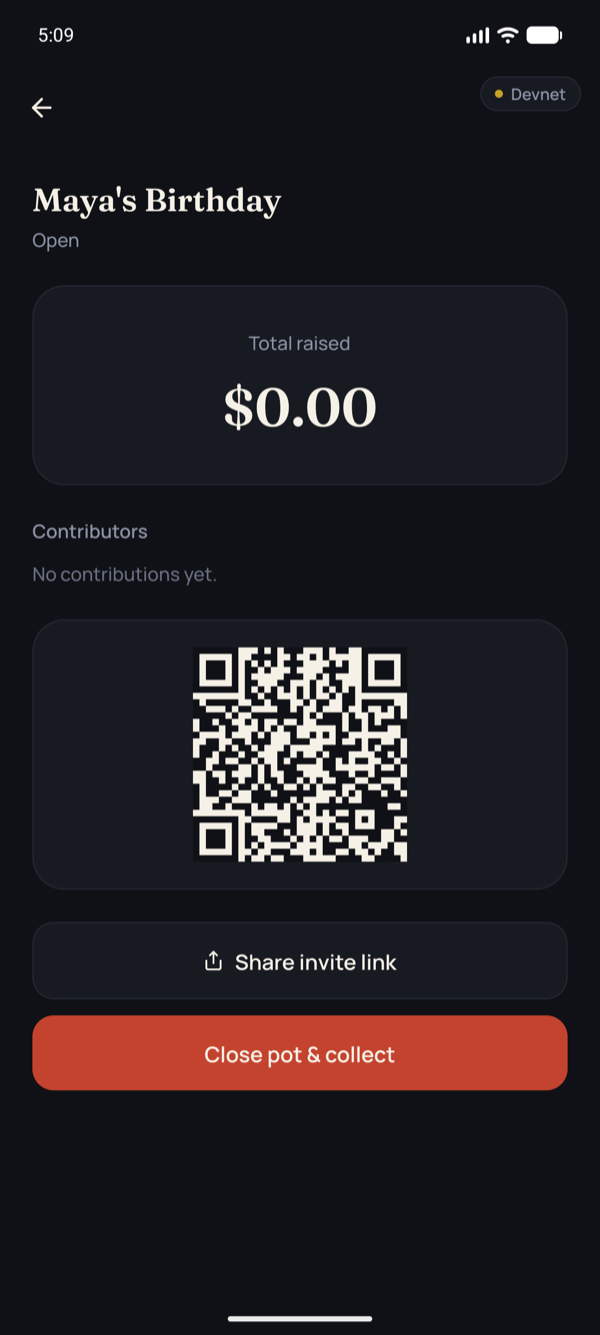
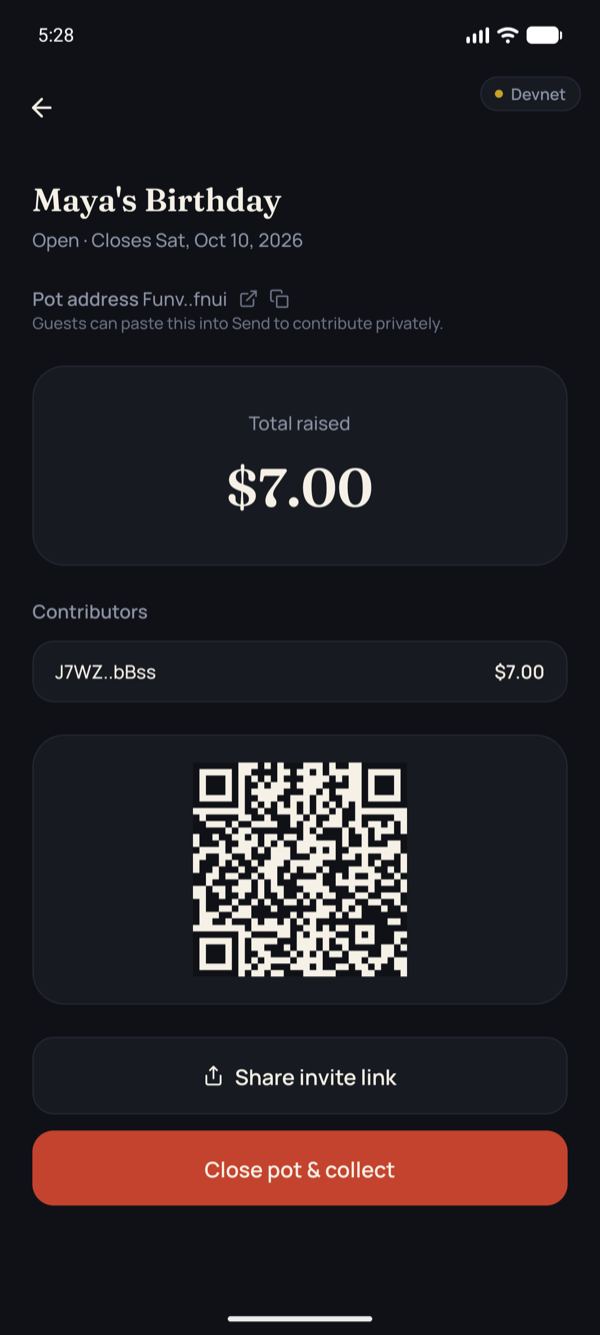
pot details UI

diff --git a/src/app/pot/[potPda].tsx b/src/app/pot/[potPda].tsx
@@ -108,6 +108,11 @@ function HostView({
   }, [ensurePotKeys, potId])
 
   const { availableBalance, pendingBalance, isLoading: balanceLoading } = usePotBalance(keysReady ? potOwner : null)
+  // Contributions land in the pot's *pending* balance and only move to *available* when applied,
+  // which happens when the pot is closed (useClosePot applies, then sweeps). Both are money the
+  // pot holds, so the host sees them as one total.
+  const totalRaised =
+    availableBalance === null && pendingBalance === null ? null : (availableBalance ?? 0n) + (pendingBalance ?? 0n)
   const { data: contributions } = usePotContributions(keysReady ? potOwner : null)
   const { closePot } = useClosePot()
   const [isClosing, setIsClosing] = useState(false)
@@ -161,15 +166,8 @@ function HostView({
             Total raised
           </Text>
           <Text style={{ fontFamily: fontFamily.display, fontSize: 40, color: colors.paper[500] }}>
-            {balanceLoading || availableBalance === null
-              ? '—'
-              : `$${formatBaseUnits(availableBalance, CUSDC_DECIMALS)}`}
+            {balanceLoading || totalRaised === null ? '—' : `$${formatBaseUnits(totalRaised, CUSDC_DECIMALS)}`}
           </Text>
-          {pendingBalance !== null && pendingBalance > 0n ? (
-            <Text className="text-gold-500 text-xs mt-2" style={{ fontFamily: fontFamily.ui }}>
-              +${formatBaseUnits(pendingBalance, CUSDC_DECIMALS)} pending
-            </Text>
-          ) : null}
         </View>
 
         <Text className="text-mute-500 text-sm mb-3" style={{ fontFamily: fontFamily.uiSemibold }}>

diff --git a/README.md b/README.md
@@ -35,6 +35,7 @@ Every Solana payment is public. Pay a friend for dinner and they — and anyone 
   <tr>
     <td align="center"><img src="docs/screenshots/pots.png" width="200" alt="Event pots" /><br /><sub><b>Pots</b> — sealed group gifts</sub></td>
     <td align="center"><img src="docs/screenshots/pot-detail.png" width="200" alt="An event pot: total raised, contributors, invite QR code" /><br /><sub><b>Pot</b> — host sees the total; guests see only their own</sub></td>
+    <td align="center"><img src="docs/screenshots/withdraw.png" width="200" alt="Withdraw private cUSDC back to USDC" /><br /><sub><b>Withdraw</b> — back to regular USDC in one approval</sub></td>
     <td align="center"><img src="docs/screenshots/stake.png" width="200" alt="Stake SKR for tiers" /><br /><sub><b>Stake</b> — SKR tiers and perks</sub></td>
   </tr>
 </table>
